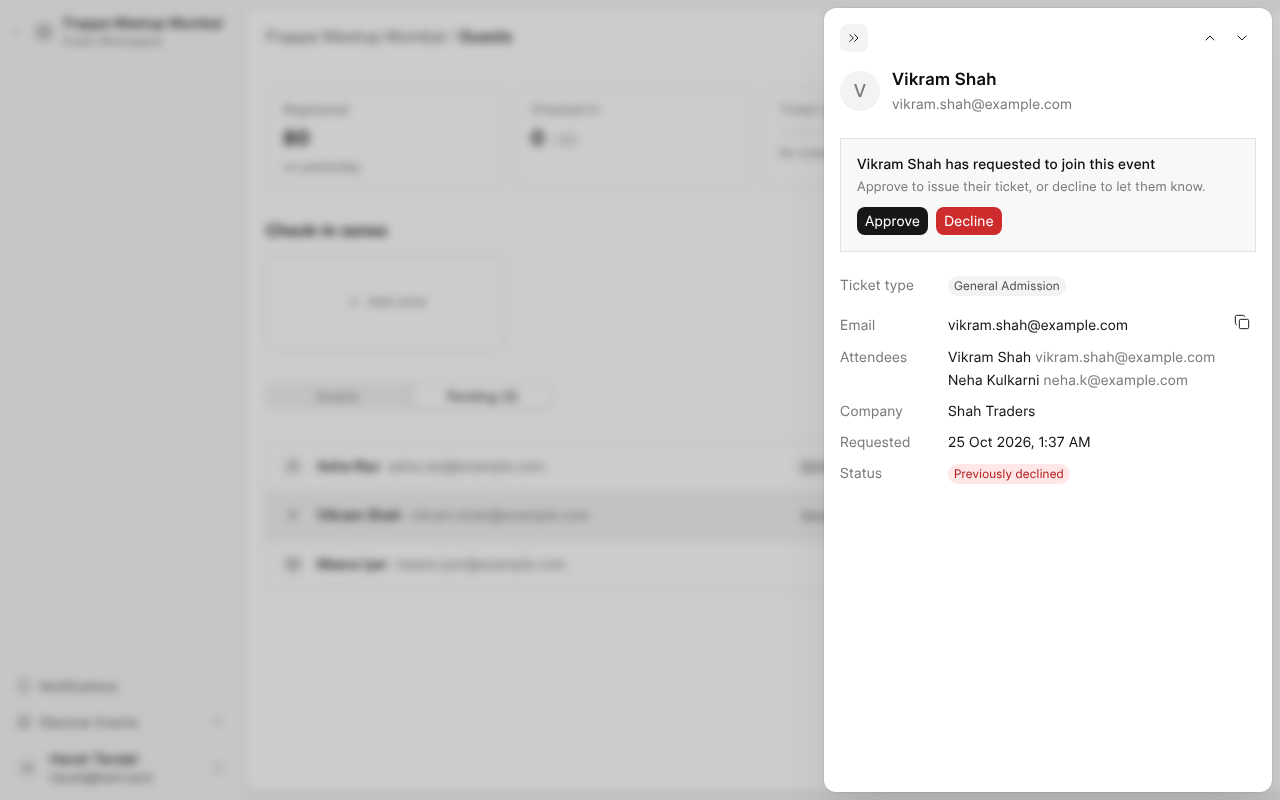
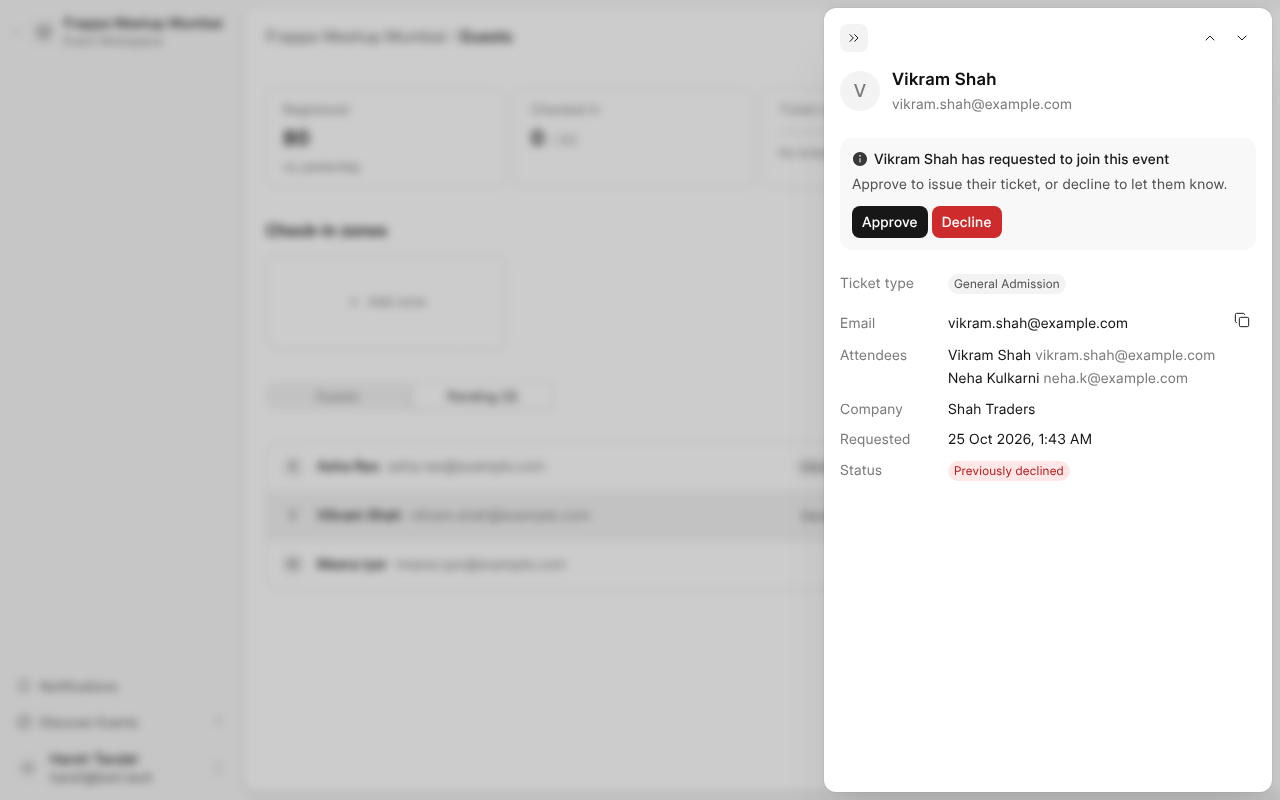
refactor(registrations): use frappe-ui Alert for the request section
- The drawer's approve/decline section is a frappe-ui Alert, with Approve
  and Decline as its actions.
- The Pending row buttons are subtle green and red.
- The "Copy check-in link" quick action is removed from the Guests page.

Claude-Session: https://claude.ai/code/session_012a5qiK2oG4vUEFh3y5ybNC

diff --git a/dashboard/src/components/dashboard/events/GuestInfoDrawer.vue b/dashboard/src/components/dashboard/events/GuestInfoDrawer.vue
@@ -1,5 +1,5 @@
 <script setup lang="ts">
-import { Avatar, Badge, Button, Tooltip, dayjsLocal } from "frappe-ui"
+import { Alert, Avatar, Badge, Button, Tooltip, dayjsLocal } from "frappe-ui"
 import { computed } from "vue"
 
 import DetailRow from "@/components/common/DetailRow.vue"
@@ -114,23 +114,18 @@ const ticket = computed<TicketWithEvent | null>(() => {
 						</div>
 					</div>
 
-					<div
+					<Alert
 						v-if="request"
-						class="space-y-3 rounded-lg border border-outline-gray-2 bg-surface-gray-1 p-4"
-					>
-						<div class="space-y-1">
-							<p class="text-base font-medium text-ink-gray-9">
-								{{ name }} has requested to join this event
-							</p>
-							<p class="text-sm text-ink-gray-5">
-								Approve to issue their ticket, or decline to let them know.
-							</p>
-						</div>
-						<div class="flex gap-2">
-							<Button variant="solid" label="Approve" @click="emit('approve')" />
-							<Button variant="solid" theme="red" label="Decline" @click="emit('decline')" />
-						</div>
-					</div>
+						:title="`${name} has requested to join this event`"
+						description="Approve to issue their ticket, or decline to let them know."
+						:primary-action="{ label: 'Approve', variant: 'solid', onClick: () => emit('approve') }"
+						:secondary-action="{
+							label: 'Decline',
+							variant: 'solid',
+							theme: 'red',
+							onClick: () => emit('decline'),
+						}"
+					/>
 
 					<dl class="space-y-3 text-base">
 						<DetailRow v-if="request" label="Ticket type">

diff --git a/dashboard/src/components/dashboard/events/GuestQuickActions.vue b/dashboard/src/components/dashboard/events/GuestQuickActions.vue
@@ -4,7 +4,6 @@ import { computed, ref } from "vue"
 import { useRouter } from "vue-router"
 
 import QuickActionTile, { PRESSABLE } from "@/components/dashboard/events/QuickActionTile.vue"
-import { useCopyToClipboard } from "@/composables/useCopyToClipboard"
 import type { EventGuest, EventGuests } from "@/types"
 import { downloadCsv } from "@/utils/csv"
 
@@ -20,15 +19,10 @@ const props = defineProps<{
 const exporting = ref(false)
 const router = useRouter()
 
-const copyToClipboard = useCopyToClipboard()
-
 const checkInHref = () =>
 	router.resolve({ name: "check-in", params: { eventName: props.event } }).href
 
 const openCheckIn = () => window.open(checkInHref(), "_blank")
-
-const copyCheckInLink = () =>
-	copyToClipboard(new URL(checkInHref(), window.location.origin).href, "Check-in link copied")
 
 // The list is paged, so the export walks it: a hundred at a time until the server says
 // there is no next page.
@@ -67,7 +61,6 @@ async function exportGuests() {
 }
 
 const actions = computed(() => [
-	{ label: "Copy check-in link", icon: "lucide-link", run: copyCheckInLink, loading: false },
 	{
 		label: "Manage zones",
 		icon: "lucide-settings-2",

diff --git a/dashboard/src/components/dashboard/events/PendingBookings.vue b/dashboard/src/components/dashboard/events/PendingBookings.vue
@@ -100,7 +100,8 @@ async function confirmDecline(message: string) {
 			<template #actions>
 				<Tooltip text="Approve">
 					<Button
-						variant="ghost"
+						variant="subtle"
+						theme="green"
 						icon="lucide-check"
 						aria-label="Approve"
 						:disabled="busy"
@@ -109,7 +110,8 @@ async function confirmDecline(message: string) {
 				</Tooltip>
 				<Tooltip text="Decline">
 					<Button
-						variant="ghost"
+						variant="subtle"
+						theme="red"
 						icon="lucide-x"
 						aria-label="Decline"
 						:disabled="busy"
